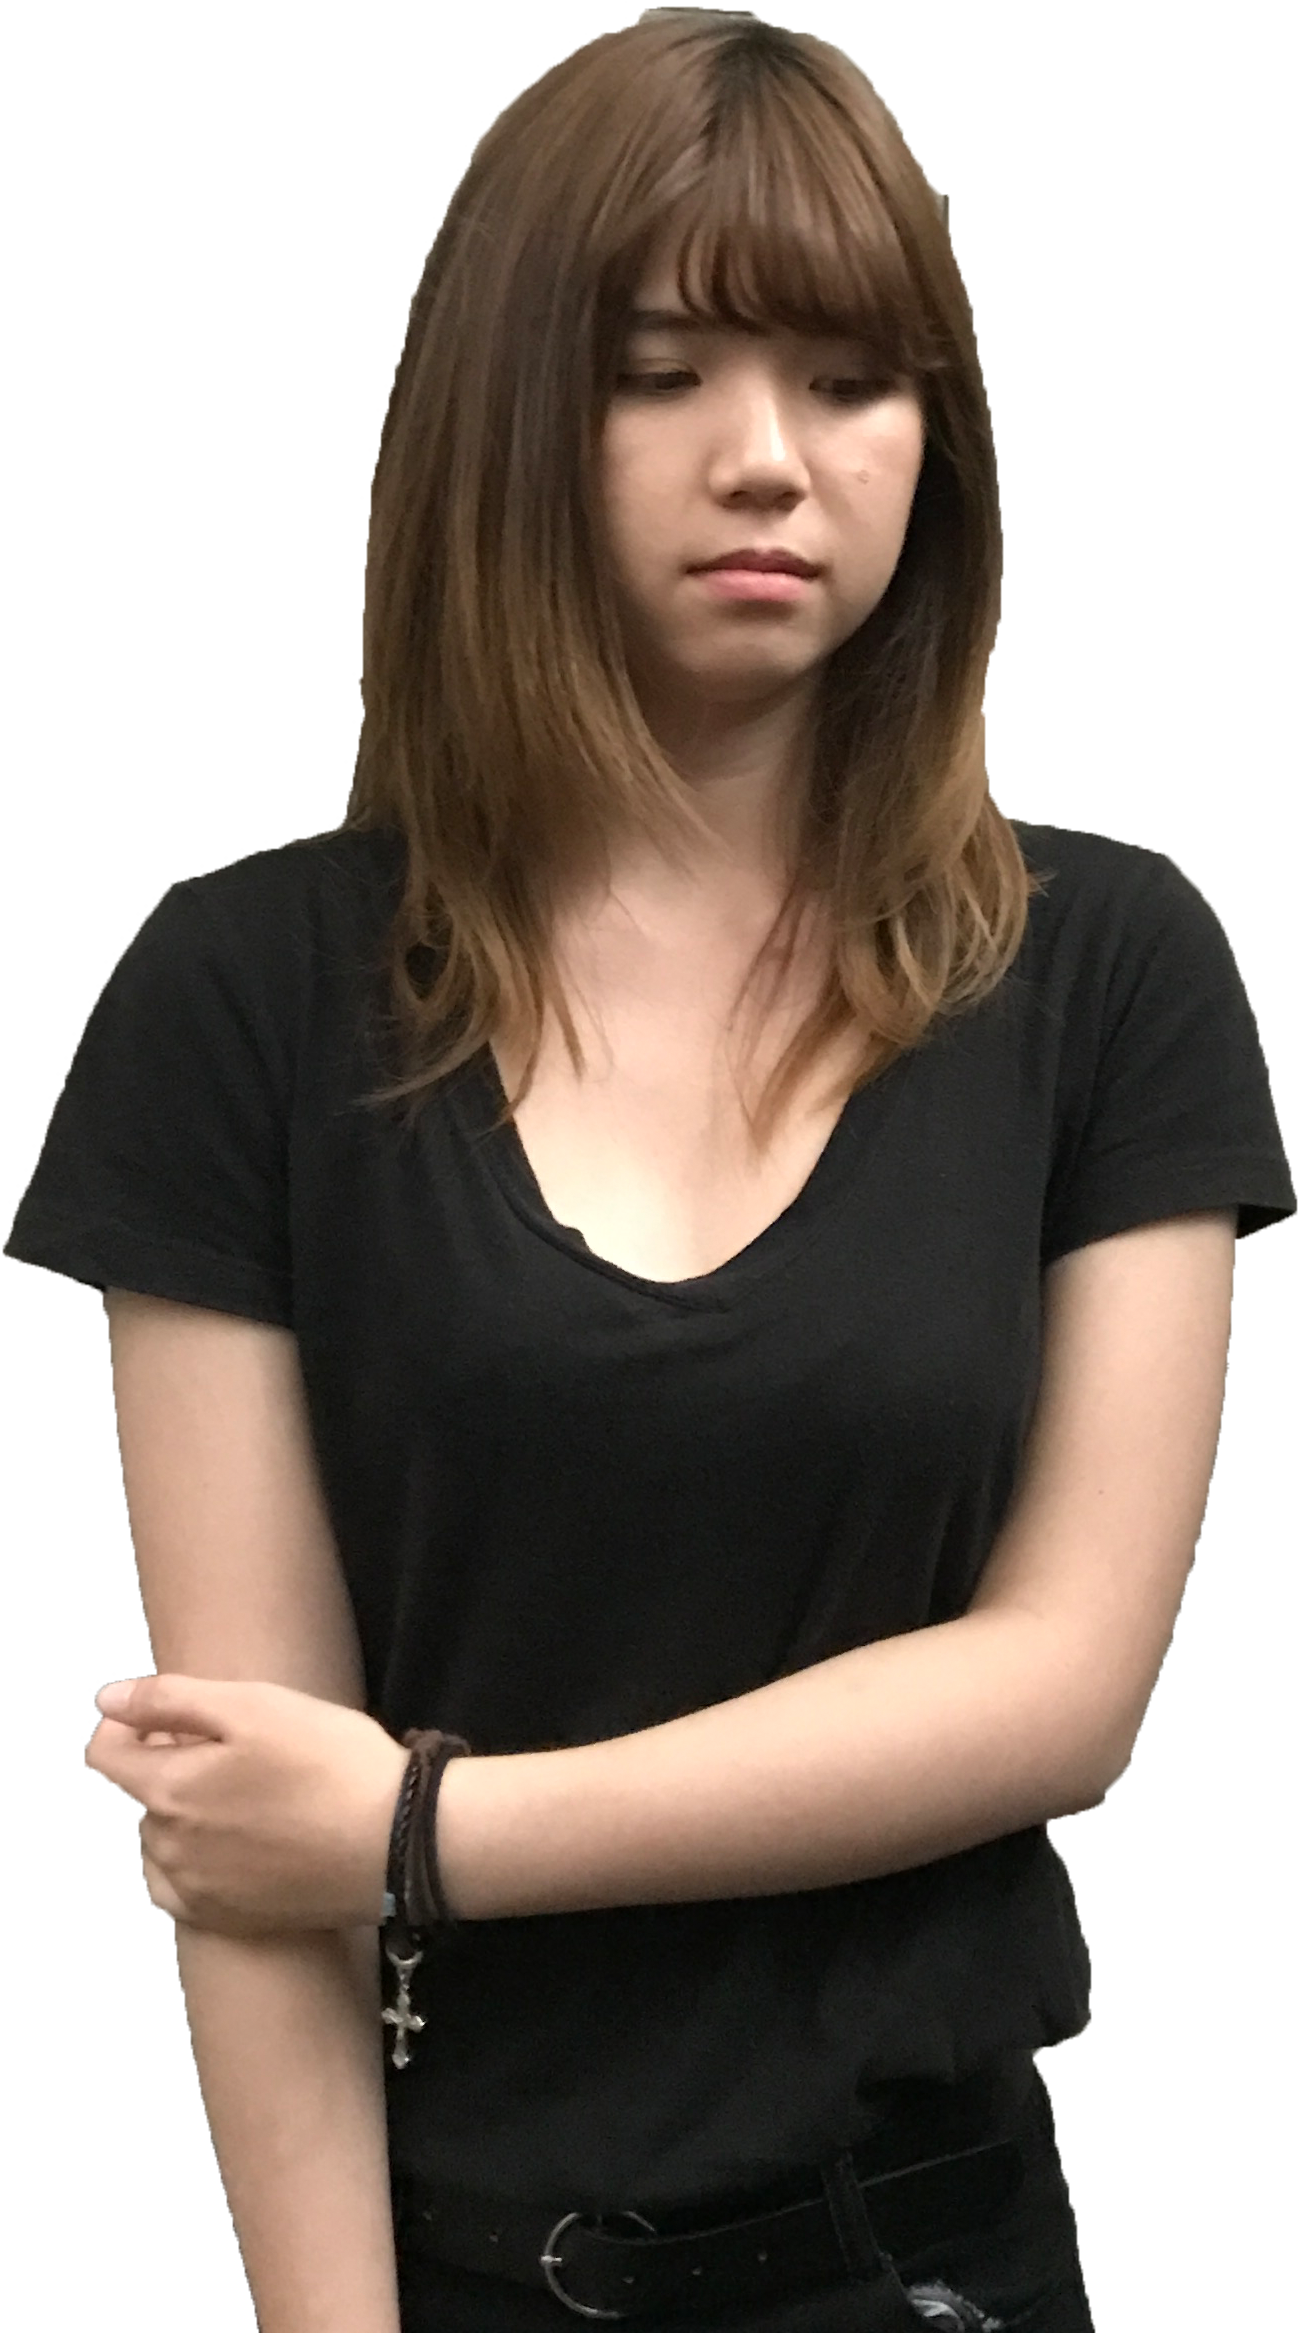
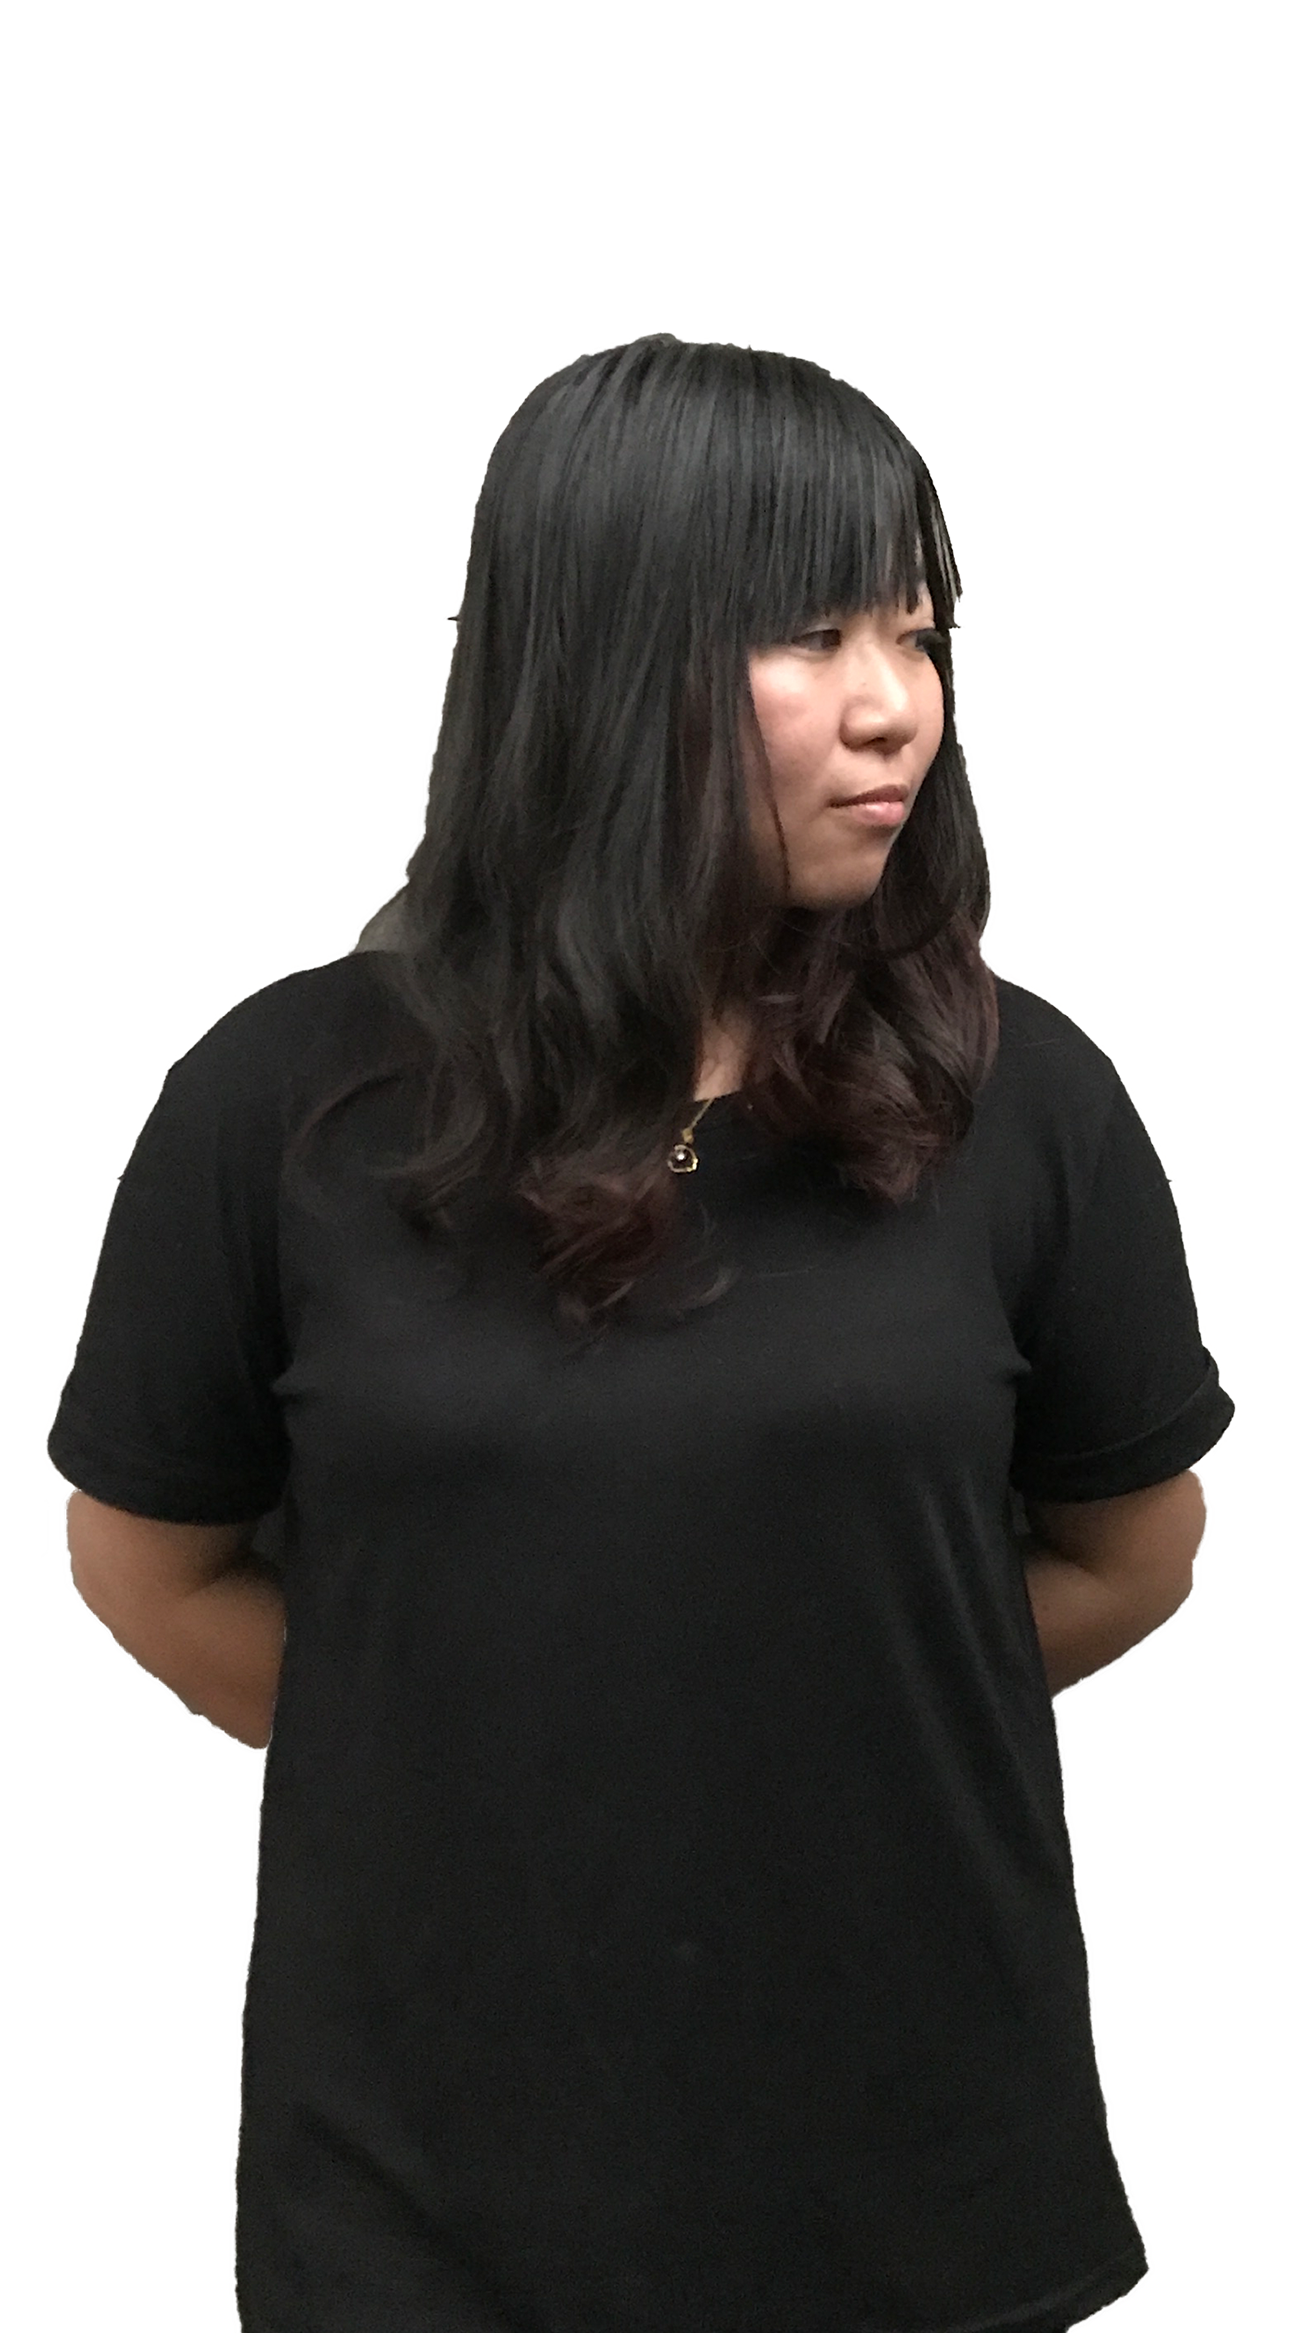
80% completed

diff --git a/main.bundle.js b/main.bundle.js
@@ -10,37 +10,81 @@ Object.defineProperty(__webpack_exports__, "__esModule", { value: true });
 
 var member = [
 	{
-		name: 'tsai'
+		name: '羅于晴',
+		work: '工作分配,簡報', 
+		skills: '金工,木工,皮革 , SW, Rhions',
+		msg: '感恩的心',
+		imgUrl: './img/member0.png'
 	},
 	{
-		name: 'tsai'
+		name: '蔡帛融',
+		work: '網站架設,資料視覺化', 
+		skills: '繪畫、影片剪輯',
+		msg: '我要回美國～',
+		imgUrl: './img/member1.png'
 	},
 	{
-		name: 'tsai'
+		name: '李雨珊',
+		work: '文化與觀光嚮導', 
+		skills: ' Ai,威力導演',
+		msg: '全盤端走～',
+		imgUrl: './img/member2.png'
 	},
 	{
-		name: 'tsai'
+		name: '張家瑜',
+		work: '攝影、影片剪輯', 
+		skills: '日文、智財相關法規',
+		msg: '回家倒垃圾',
+		imgUrl: './img/member3.png'
 	},
 	{
-		name: 'tsai'
+		name: '黃昱豪',
+		work: '田野調查 , 口頭報告', 
+		skills: 'Ps、口說',
+		msg: '我家還沒搬完',
+		imgUrl: './img/member4.png'
 	},
 	{
-		name: 'tsai'
+		name: '陳靜淳',
+		work: '繪畫，展版製作', 
+		skills: 'Ai、Ps、平面繪畫、SW',
+		msg: '我有事先走了',
+		imgUrl: './img/member5.png'
 	},
 	{
-		name: 'tsai'
+		name: '尤威理',
+		work: '簡報,資訊圖像化', 
+		skills: '簡報設計,資訊設計',
+		msg: '很臭，不要',
+		imgUrl: './img/member6.png'
 	},
 	{
-		name: 'tsai'
+		name: '邱芊頻',
+		work: '排版編輯、文字內容', 
+		skills: ' Ai, Id, 攝影,日文',
+		msg: '我是屁孩',
+		imgUrl: './img/member7.png'
+	},	
+	{
+		name: '連建榮',
+		work: '攝影,影片剪輯', 
+		skills: 'Ai, Ps, 土木',
+		msg: '我要晾衣服',
+		imgUrl: './img/member8.png'
 	},
 	{
-		name: 'tsai'
+		name: '林亞逸',
+		work: '會議記錄,財務管理', 
+		skills: 'Ai, Ps, 土木',
+		msg: '....XD',
+		imgUrl: './img/member9.png'
 	},
 	{
-		name: 'tsai'
-	},
-	{
-		name: 'tsai'
+		name: '林菀婷',
+		work: '簡報,企劃發想', 
+		skills: '簡報設計,創意思考',
+		msg: '我要玩楓之谷',
+		imgUrl: './img/member10.png'
 	},
 ]
 
@@ -127,7 +171,7 @@ exports = module.exports = __webpack_require__(3)(undefined);
 
 
 // module
-exports.push([module.i, "html, body {\n  border: 0px;\n  margin: 0px;\n  padding: 0px;\n  overflow-x: hidden;\n  background-color: #f7eddf; }\n\n#app {\n  width: 100%;\n  height: 100%;\n  position: relative; }\n  #app #banner {\n    position: fixed;\n    width: 100vw;\n    left: 0px;\n    top: 0px;\n    z-index: -1; }\n  #app .mainBox {\n    display: inline-flex;\n    width: 100vw;\n    max-width: 1800px;\n    position: relative; }\n    #app .mainBox .leftSide {\n      display: flex;\n      width: 50%; }\n      #app .mainBox .leftSide .leftBox {\n        display: flex;\n        width: 60%;\n        height: 600px;\n        flex-direction: column;\n        justify-content: flex-start; }\n        #app .mainBox .leftSide .leftBox .logoBox {\n          display: flex;\n          width: calc(100% - 60px);\n          justify-content: center;\n          padding: 40px 30px;\n          background-color: white; }\n          #app .mainBox .leftSide .leftBox .logoBox img {\n            width: calc(100% - 20px);\n            max-width: 180px;\n            align-self: center; }\n      #app .mainBox .leftSide .rightBox {\n        display: flex;\n        width: 40%; }\n        #app .mainBox .leftSide .rightBox .puzzleBox {\n          display: flex;\n          width: calc(100% - 16px);\n          height: 400px;\n          justify-content: center;\n          align-items: center;\n          align-self: flex-start;\n          background-color: rgba(3, 53, 81, 0.5);\n          border: 8px solid white;\n          font-size: 25px;\n          color: white;\n          transition: background-color 0.5s; }\n          #app .mainBox .leftSide .rightBox .puzzleBox:hover {\n            background-color: rgba(3, 53, 81, 0.7); }\n    #app .mainBox .rightSide {\n      display: flex;\n      flex-direction: column;\n      width: 50%; }\n      #app .mainBox .rightSide .topBox {\n        display: flex;\n        width: 100%;\n        height: auto; }\n        #app .mainBox .rightSide .topBox .experienceBox {\n          display: flex;\n          width: 80%;\n          height: 400px;\n          align-self: flex-start;\n          background-color: white;\n          position: relative; }\n          #app .mainBox .rightSide .topBox .experienceBox .container {\n            position: absolute;\n            display: flex;\n            bottom: 0px;\n            left: 0px;\n            margin: 10px;\n            width: calc(100% - 20px);\n            height: 300px;\n            justify-content: center;\n            align-items: center; }\n            #app .mainBox .rightSide .topBox .experienceBox .container #experienceImg {\n              position: absolute;\n              top: 0px;\n              left: 0px;\n              width: 100%;\n              height: 100%; }\n            #app .mainBox .rightSide .topBox .experienceBox .container h2 {\n              color: white;\n              z-index: 1; }\n      #app .mainBox .rightSide .downBox {\n        display: flex;\n        width: 100%;\n        flex-direction: row-reverse; }\n        #app .mainBox .rightSide .downBox .picnicBox {\n          display: inline-flex;\n          width: 60%;\n          height: 200px;\n          background-color: white;\n          justify-content: center;\n          align-items: center; }\n          #app .mainBox .rightSide .downBox .picnicBox .title {\n            display: flex;\n            width: 25%;\n            justify-content: center;\n            align-items: center; }\n            #app .mainBox .rightSide .downBox .picnicBox .title > div {\n              font-size: 22px;\n              width: 30px;\n              padding: 5px;\n              text-align: center;\n              border: 1px solid black; }\n          #app .mainBox .rightSide .downBox .picnicBox #picnicBasket {\n            width: calc(75% - 20px);\n            padding: 10px;\n            height: 180px; }\n\n.membersBoard {\n  display: flex;\n  width: calc(100% - 100px);\n  flex-direction: column;\n  max-width: 1800px;\n  padding: 150px 50px; }\n  .membersBoard .members {\n    display: inline-flex;\n    width: 100%;\n    height: 250px;\n    border: 1px solid;\n    flex-wrap: wrap;\n    justify-content: space-around;\n    align-items: flex-end; }\n    .membersBoard .members .member {\n      display: flex;\n      width: 100px;\n      height: 200px;\n      border: 1px solid;\n      flex-direction: column;\n      transform: translateY(50px);\n      transition: transform 0.4s; }\n      .membersBoard .members .member:hover {\n        transform: translateY(0px); }\n        .membersBoard .members .member:hover .intro {\n          opacity: 1;\n          transform: translateY(-20px); }\n        .membersBoard .members .member:hover img {\n          opacity: 1; }\n      .membersBoard .members .member img {\n        width: 100%;\n        opacity: 0.5; }\n      .membersBoard .members .member .intro {\n        display: flex;\n        width: calc(100% - 20px);\n        padding: 10px;\n        height: 100px;\n        margin-top: 15px;\n        border: 1px solid;\n        flex-wrap: wrap;\n        opacity: 0;\n        transition: all 1s; }\n", ""]);
+exports.push([module.i, "html, body {\n  border: 0px;\n  margin: 0px;\n  padding: 0px;\n  overflow-x: hidden;\n  background-color: #f7eddf; }\n\nbody {\n  overflow-y: hidden; }\n\n#app {\n  width: 100%;\n  height: 100%;\n  position: relative; }\n  #app #banner {\n    position: fixed;\n    width: 100vw;\n    left: 0px;\n    top: 0px;\n    z-index: -1; }\n  #app .mainBox {\n    display: inline-flex;\n    width: 100vw;\n    max-width: 1800px;\n    position: relative; }\n    #app .mainBox .leftSide {\n      display: flex;\n      width: 50%; }\n      #app .mainBox .leftSide .leftBox {\n        display: flex;\n        width: 60%;\n        height: 600px;\n        flex-direction: column;\n        justify-content: flex-start; }\n        #app .mainBox .leftSide .leftBox .logoBox {\n          display: flex;\n          width: calc(100% - 60px);\n          justify-content: center;\n          padding: 40px 30px;\n          background-color: white; }\n          #app .mainBox .leftSide .leftBox .logoBox img {\n            width: calc(100% - 20px);\n            max-width: 180px;\n            align-self: center; }\n      #app .mainBox .leftSide .rightBox {\n        display: flex;\n        width: 40%; }\n        #app .mainBox .leftSide .rightBox .puzzleBox {\n          display: flex;\n          width: calc(100% - 16px);\n          height: 400px;\n          justify-content: center;\n          align-items: center;\n          align-self: flex-start;\n          background-color: rgba(3, 53, 81, 0.5);\n          border: 8px solid white;\n          font-size: 25px;\n          color: white;\n          transition: background-color 0.5s; }\n          #app .mainBox .leftSide .rightBox .puzzleBox:hover {\n            background-color: rgba(3, 53, 81, 0.7); }\n    #app .mainBox .rightSide {\n      display: flex;\n      flex-direction: column;\n      width: 50%; }\n      #app .mainBox .rightSide .topBox {\n        display: flex;\n        width: 100%;\n        height: auto; }\n        #app .mainBox .rightSide .topBox .experienceBox {\n          display: flex;\n          width: 80%;\n          height: 400px;\n          align-self: flex-start;\n          background-color: white;\n          position: relative; }\n          #app .mainBox .rightSide .topBox .experienceBox .container {\n            position: absolute;\n            display: flex;\n            bottom: 0px;\n            left: 0px;\n            margin: 10px;\n            width: calc(100% - 20px);\n            height: 300px;\n            justify-content: center;\n            align-items: center; }\n            #app .mainBox .rightSide .topBox .experienceBox .container #experienceImg {\n              position: absolute;\n              top: 0px;\n              left: 0px;\n              width: 100%;\n              height: 100%; }\n            #app .mainBox .rightSide .topBox .experienceBox .container h2 {\n              color: white;\n              z-index: 1; }\n      #app .mainBox .rightSide .downBox {\n        display: flex;\n        width: 100%;\n        flex-direction: row-reverse; }\n        #app .mainBox .rightSide .downBox .picnicBox {\n          display: inline-flex;\n          width: 60%;\n          height: 200px;\n          background-color: white;\n          justify-content: center;\n          align-items: center; }\n          #app .mainBox .rightSide .downBox .picnicBox .title {\n            display: flex;\n            width: 25%;\n            justify-content: center;\n            align-items: center; }\n            #app .mainBox .rightSide .downBox .picnicBox .title > div {\n              font-size: 22px;\n              width: 30px;\n              padding: 5px;\n              text-align: center;\n              border: 1px solid black; }\n          #app .mainBox .rightSide .downBox .picnicBox #picnicBasket {\n            width: calc(75% - 20px);\n            padding: 10px;\n            height: 180px; }\n\n.membersBoard {\n  display: flex;\n  width: calc(100% - 100px);\n  flex-direction: column;\n  max-width: 1800px;\n  padding: 150px 50px 250px 50px; }\n  .membersBoard .members {\n    display: inline-flex;\n    width: 100%;\n    height: 250px;\n    flex-wrap: wrap;\n    justify-content: space-around;\n    align-items: flex-end; }\n    .membersBoard .members .member {\n      position: relative;\n      display: flex;\n      width: 100px;\n      height: 200px;\n      flex-direction: column;\n      transform: translateY(50px);\n      transition: transform 0.4s; }\n      .membersBoard .members .member:hover {\n        transform: translateY(0px); }\n        .membersBoard .members .member:hover .intro {\n          opacity: 1;\n          transform: translateY(-15px); }\n        .membersBoard .members .member:hover img {\n          opacity: 1; }\n        .membersBoard .members .member:hover .arrow-box {\n          opacity: 1; }\n      .membersBoard .members .member .arrow-box {\n        position: absolute;\n        display: flex;\n        background-color: white;\n        right: -40px;\n        top: -40px;\n        width: 90px;\n        height: 50px;\n        border-radius: 10px;\n        justify-content: center;\n        align-items: center;\n        opacity: 0;\n        transition: all 0.5s; }\n        .membersBoard .members .member .arrow-box .arrow {\n          position: absolute;\n          border: transparent;\n          border-top: white;\n          border-style: solid;\n          border-width: 10px;\n          height: 0;\n          width: 0;\n          top: 100%;\n          right: 50px; }\n      .membersBoard .members .member img {\n        width: 100%;\n        opacity: 0.5; }\n      .membersBoard .members .member .intro {\n        display: flex;\n        width: calc(100%);\n        padding: 10px;\n        margin-top: 15px;\n        flex-wrap: wrap;\n        opacity: 0;\n        transition: all 1s; }\n        .membersBoard .members .member .intro h3 {\n          margin-bottom: 0px; }\n        .membersBoard .members .member .intro h5 {\n          margin: 5px 0px; }\n", ""]);
 
 // exports
 

diff --git a/index.html b/index.html
@@ -37,7 +37,7 @@
 								野餐
 							</div>
 						</div>
-						<img src="./img/basket.jpg" alt="" id="picnicBasket">
+						<img src="./img/picnic.jpg" alt="" id="picnicBasket">
 					</div>
 				</div>
 			</div>
@@ -46,11 +46,17 @@
 			<h2>Members</h2>
 			<div class="members">
 				<div class="member" v-for="(member,index) in members">
-					<img src="./img/member0.png" alt="">
+					<div class="arrow-box">
+						<h5>{{member.msg}}</h5>
+						<div class="arrow"></div>
+					</div>
+					<img :src="member.imgUrl" alt="">
 					<div class="intro">
-						testadasdada
-						asdadasd
-						asdadasdasdasdas
+						<h3>{{member.name}}</h3>
+						<div class="content">
+							<h5>Works:{{member.work}}</h5>
+							<h5>Skills:{{member.skills}}</h5>
+						</div>
 					</div>
 				</div>
 			</div>
